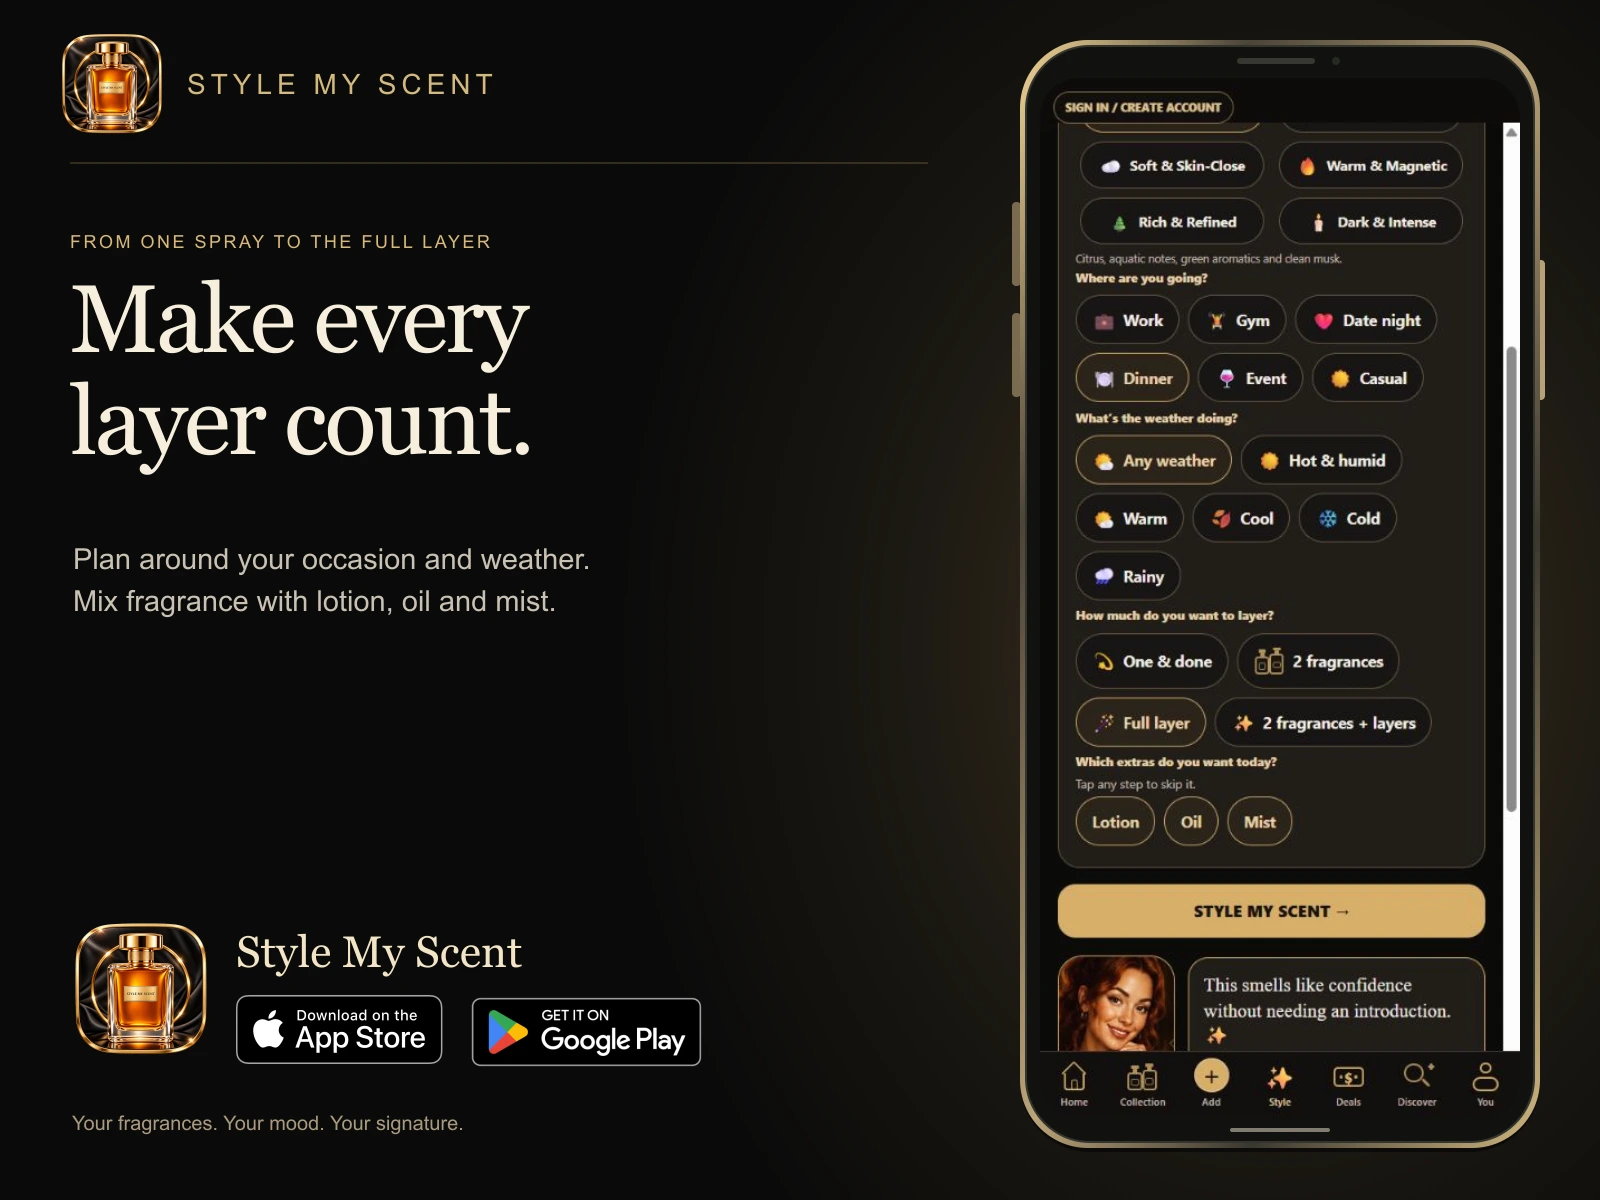
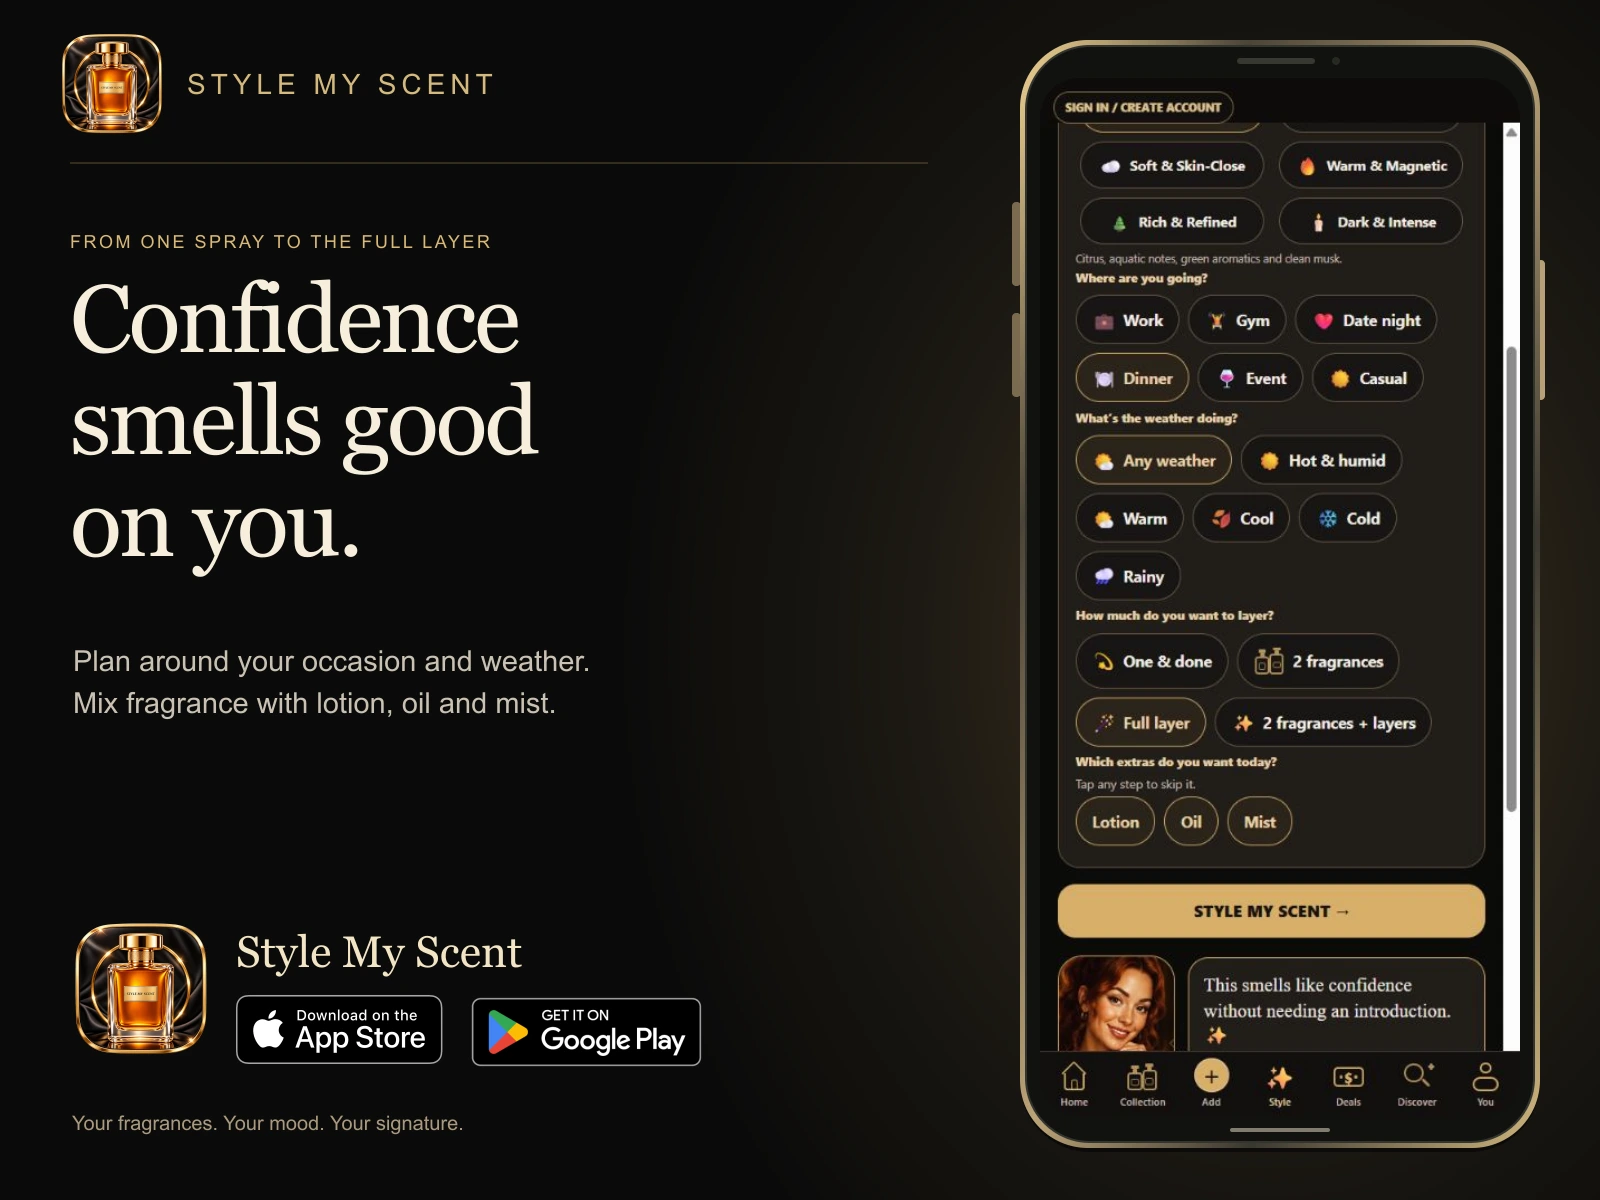
Update feature photo headlines and match app mood choices

Changed region(s): [[0.0312, 0.2158, 0.375, 0.6167]]

diff --git a/index.html b/index.html
@@ -114,13 +114,13 @@ footer{border-top:1px solid var(--line);padding:38px 0 48px;color:#9f9589;font-s
 <nav><a class="brand" href="#top">STYLE MY <span>SCENT</span></a><div class="navlinks"><a href="#app-photos">App Preview</a><a href="#how">How It Works</a><a href="#discover">Discover</a><a href="#layering">Layering</a><a href="#deals">Deals</a><a class="navcta" href="#get-app">Get the App</a></div></nav>
 <header class="hero"><div class="addison-wrap"><img alt="Addison, the Style My Scent virtual fragrance stylist" class="addison" src="addison-app.jpg"></div><div class="hero-copy"><div class="eyebrow">YOUR COLLECTION. YOUR LAYERS. YOUR SIGNATURE.</div><h1 class="addison-script" aria-label="Hi, I’m Addison"><svg viewBox="0 0 984 123" aria-hidden="true" focusable="false"><path fill="currentColor" fill-rule="evenodd" d="M128 99L125 100L120 107L120 110L118 114L120 120L122 119L125 113L125 111L131 104L130 100ZM373 85L372 84L366 96L357 106L355 107L350 107L348 105L348 97L349 96L349 92L351 89L351 85L353 82L353 73L351 70L346 67L340 68L333 72L328 77L325 83L323 84L322 81L324 77L324 64L321 59L314 58L307 61L303 64L294 73L288 81L287 80L287 75L289 70L287 66L281 66L278 68L278 73L277 74L275 86L268 104L268 110L273 112L276 111L276 109L282 96L287 90L293 80L302 71L307 68L311 68L313 71L313 79L312 80L311 87L304 105L304 109L308 111L311 111L312 110L314 104L330 80L336 75L340 75L342 77L342 86L338 97L338 105L340 109L344 112L352 112L361 107L367 100L373 88ZM106 57L101 58L93 67L89 75L85 87L85 91L83 95L83 102L85 107L90 111L93 111L94 112L96 111L101 111L109 107L118 98L124 86L123 84L114 98L106 105L104 105L101 107L98 107L93 103L92 101L93 90L100 75L108 62L108 59ZM665 33L659 32L653 35L650 39L651 43L655 45L661 44L666 38ZM122 33L118 30L111 32L107 36L107 41L110 43L115 43L119 41L122 37ZM905 2L897 6L890 13L886 23L886 28L887 29L888 37L894 51L907 70L913 77L924 94L931 109L938 109L940 103L949 87L972 55L978 44L978 42L980 40L981 32L982 31L981 18L980 15L974 8L970 5L963 2L952 2L951 3L948 3L943 6L936 13L935 16L933 15L928 8L920 3L917 2ZM905 11L914 10L920 13L926 19L931 30L938 30L941 21L945 16L950 12L956 10L960 10L966 12L973 20L973 26L974 27L973 28L973 33L970 42L963 52L962 55L942 82L935 95L932 93L926 81L908 57L907 54L904 51L898 41L895 31L895 22L898 16ZM402 117L403 119L407 122L410 117L410 114L412 112L415 103L417 101L417 99L420 95L420 93L425 85L426 81L428 79L428 77L434 69L444 69L445 70L454 71L455 72L454 84L453 85L453 100L456 110L462 114L467 114L474 111L482 102L485 109L488 112L493 114L500 113L504 111L512 104L522 91L524 92L522 103L524 109L529 113L539 112L546 108L546 107L554 100L555 101L556 109L561 113L567 114L568 113L571 113L579 108L586 101L594 90L595 91L594 101L593 102L595 109L600 113L607 113L614 110L626 99L627 100L627 105L629 109L632 112L635 113L643 113L649 111L655 107L660 102L662 105L662 107L668 114L676 117L682 117L691 114L695 111L700 104L705 103L713 98L714 99L714 105L717 111L722 114L729 114L736 111L749 99L759 100L766 97L768 98L768 100L766 103L765 109L771 112L774 109L775 106L778 103L779 100L789 86L797 78L803 75L809 75L813 80L811 92L808 98L808 106L809 108L814 112L824 112L828 110L837 101L844 88L844 86L842 86L834 100L827 107L822 109L819 108L817 105L818 96L823 85L823 74L818 67L816 66L808 66L803 68L794 75L784 87L783 86L783 83L785 79L786 71L784 69L778 69L776 70L775 72L774 81L771 89L766 94L764 94L762 96L752 96L751 94L755 89L759 81L759 78L761 74L761 64L760 61L756 57L747 57L743 59L739 63L736 73L736 79L737 80L738 87L745 97L735 106L731 108L727 108L724 104L724 95L725 94L725 90L727 87L729 80L733 74L733 72L729 72L724 75L720 80L715 91L708 99L704 101L701 101L700 100L700 87L693 67L693 61L692 60L693 51L688 51L685 56L685 63L683 65L681 70L673 81L662 90L661 95L652 105L646 108L641 108L639 107L636 103L637 90L641 83L641 81L646 74L652 62L650 59L646 59L644 60L637 68L630 84L630 86L625 95L613 106L611 107L606 107L604 105L604 91L605 90L607 78L609 76L610 70L617 55L618 50L620 48L620 46L628 31L628 29L637 12L638 3L637 2L634 2L630 5L624 14L623 18L613 38L600 73L593 86L586 96L580 102L572 107L569 107L565 102L565 95L568 86L573 76L577 71L587 62L591 60L599 60L601 61L601 58L599 56L596 56L595 55L589 56L579 61L569 70L563 78L554 95L545 104L540 107L535 107L533 105L533 91L536 82L536 78L538 75L538 72L546 55L546 53L549 48L549 46L567 9L567 3L566 2L562 2L556 9L547 26L546 31L544 33L541 43L539 45L531 68L522 86L512 99L505 105L501 107L498 107L494 103L495 91L501 78L505 72L514 63L520 60L530 61L530 58L528 56L525 56L524 55L518 56L511 59L504 64L491 79L485 91L485 93L480 100L472 107L467 107L464 102L464 86L465 85L466 71L468 66L469 57L471 52L471 48L473 45L474 38L476 35L476 32L482 14L487 7L487 6L482 2L477 2L475 3L454 26L453 29L447 35L443 42L439 46L438 49L432 56L432 58L430 60L414 59L407 62L404 65L404 67L420 67L421 68L422 67L424 69L411 90L411 92L408 96L408 98L406 100L405 105L403 107ZM668 94L670 92L678 100L688 104L689 106L684 111L677 112L673 110L668 103L668 99L667 98L668 97ZM685 69L687 72L688 79L690 84L691 96L689 101L685 101L681 99L672 89L673 85L677 81ZM754 61L757 66L757 73L750 89L747 91L743 83L743 70L748 62ZM445 48L447 48L458 58L458 62L455 66L448 64L444 64L437 61ZM473 12L474 14L472 16L472 18L469 23L464 38L464 41L461 47L461 51L459 55L457 56L447 45L454 35L458 31L462 29L463 27L462 23L466 18ZM286 0L285 0L275 17L277 21L279 21L280 18L286 11L289 5ZM269 3L252 2L251 1L245 1L244 0L221 0L216 2L208 3L201 9L201 11L219 10L220 9L233 9L234 11L232 15L229 30L227 34L227 38L224 47L224 51L221 61L221 65L219 69L219 73L216 80L215 87L212 94L210 103L206 109L198 109L197 110L192 110L187 112L184 115L183 121L193 120L194 119L227 119L228 118L237 117L243 113L243 112L238 112L237 111L215 110L213 108L217 104L224 87L226 74L228 70L228 65L231 56L231 51L232 50L232 46L234 40L234 35L235 34L239 10L240 9L258 9L259 8L264 8L268 6ZM89 0L87 0L83 4L80 9L75 23L75 26L72 32L72 35L69 41L69 44L67 47L67 50L64 53L61 53L60 52L48 52L47 51L35 51L34 52L32 50L45 8L44 3L41 0L33 0L31 2L25 4L12 16L8 24L8 32L11 36L16 37L17 24L21 15L27 7L33 4L36 4L37 5L34 18L32 21L32 24L27 36L27 39L24 44L23 50L21 53L12 56L9 61L11 62L12 61L18 61L19 63L16 70L16 73L13 79L13 82L11 85L8 100L6 104L5 113L3 117L3 120L4 121L8 119L13 112L13 109L17 100L17 97L22 84L22 81L25 74L26 68L28 65L28 62L30 60L50 59L51 58L62 58L64 60L61 68L61 71L59 74L58 81L55 89L54 99L53 100L53 114L56 119L61 121L63 120L63 103L64 102L64 96L65 95L65 90L66 89L66 84L67 83L69 69L71 65L71 60L73 58L79 58L83 55L83 54L75 53L74 50L76 46L77 38L81 27L82 20L84 17L84 14L87 8Z"/></svg></h1><p class="lead">I’ll help you style what you own, discover what you’ll love, and make every scent feel unforgettable. Organize your collection, build intentional layers, remember your best wears, and let us help with the deal hunting.</p><div class="hero-line"><strong>MORE THAN FRAGRANCE.</strong><span>MOOD. MEMORY. YOU.</span></div><div class="hero-app-callout" id="get-app"><div class="magic-kicker">WHERE THE MAGIC HAPPENS</div><p>The personalized experience lives in the Style My Scent app.</p><form id="waitlist-form" class="waitlist-form"><input id="waitlist-email" type="email" placeholder="Your email address" autocomplete="email" required><button type="submit">NOTIFY ME AT LAUNCH →</button></form><div id="waitlist-status" class="waitlist-status" aria-live="polite"></div></div></div></header>
 </div>
-<section id="app-photos"><div class="wrap"><div class="center"><div class="eyebrow">Explore the app</div><h2 class="section-title">Your whole fragrance world, in one app.</h2><p class="section-copy">Meet Addison, style your own collection, build layers, compare similar scents, and shop the same bottle across retailers. Take a closer look below.</p><nav class="feature-shortcuts" aria-label="App preview features"><a href="#preview-meet-addison">Meet Addison</a><a href="#preview-personal-styling">Personal styling</a><a href="#preview-occasion-layering">Layering</a><a href="#preview-discover-complete">Discover</a><a href="#preview-deals">Compare deals</a></nav></div><figure class="app-feature-photo" id="preview-meet-addison"><a href="assets/app-features/meet-addison.webp" target="_blank" rel="noopener" aria-label="Open full-size image: Meet Addison, your personal fragrance stylist in Style My Scent"><img src="assets/app-features/meet-addison.webp" alt="Meet Addison, your personal fragrance stylist in Style My Scent" width="1600" height="1200" loading="lazy" decoding="async"></a><figcaption>Tap the image to explore every detail. <a class="gold" href="#get-app">Get Style My Scent →</a></figcaption></figure></div></section>
+<section id="app-photos"><div class="wrap"><div class="center"><div class="eyebrow">Explore the app</div><h2 class="section-title">Your whole fragrance world, in one app.</h2><p class="section-copy">Meet Addison, style your own collection, build layers, compare similar scents, and shop the same bottle across retailers. Take a closer look below.</p><nav class="feature-shortcuts" aria-label="App preview features"><a href="#preview-meet-addison">Meet Addison</a><a href="#preview-personal-styling">Personal styling</a><a href="#preview-occasion-layering">Layering</a><a href="#preview-discover-complete">Discover</a><a href="#preview-deals">Compare deals</a></nav></div><figure class="app-feature-photo" id="preview-meet-addison"><a href="assets/app-features/meet-addison.webp?v=headlines-v2" target="_blank" rel="noopener" aria-label="Open full-size image: Meet Addison, your personal fragrance stylist in Style My Scent"><img src="assets/app-features/meet-addison.webp?v=headlines-v2" alt="Meet Addison, your personal fragrance stylist in Style My Scent" width="1600" height="1200" loading="lazy" decoding="async"></a><figcaption>Tap the image to explore every detail. <a class="gold" href="#get-app">Get Style My Scent →</a></figcaption></figure></div></section>
 <section id="how"><div class="wrap center"><div class="eyebrow">More than a perfume list</div><h2 class="section-title">Your collection can do more than sit there looking pretty.</h2><p class="section-copy"><strong>Style My Scent is a fragrance discovery and personal styling platform</strong> built around the way fragrance lovers actually collect, layer, wear, remember and shop—so the bottles you own become a collection you can really use.</p><div class="feature-grid"><div class="feature"><h3>Style What You Own</h3><p>Your fragrance wardrobe, all in one place. Save and organize your perfumes, oils, lotions and mists, then use your own collection when you style a scent.</p></div><div class="feature"><h3>Layer With Intention</h3><p>Addison builds from what you own, then gives every styling result the same clear breakdown: why it works, the harmonizing notes, and the best way to wear it for the moment.</p></div><div class="feature"><h3>Remember What Worked</h3><p>Journal wears, reactions, compliments and favorite combinations so your collection gets smarter with you.</p></div></div></div></section>
-<section id="mood"><div class="wrap mood-layout"><div class="mood-copy"><div class="eyebrow">Style the moment</div><div class="big">Mood, plans and weather all matter.</div><p class="section-copy" style="margin:18px 0 0">Tell Style My Scent what kind of day you’re having and let your own collection do more of the work.</p><div class="chips"><span class="chip">😎 Confident</span><span class="chip">💕 Flirty</span><span class="chip">😌 Relaxed</span><span class="chip">🖤 Mysterious</span><span class="chip">🔥 Bold</span><span class="chip">🎲 Surprise Me</span></div></div><div class="event-grid"><div class="event"><b>💼 Work</b><span>Regular workday, interview, meeting or presentation.</span></div><div class="event"><b>❤ Date Night</b><span>Style the scent around the kind of night you have planned.</span></div><div class="event"><b>🍽 Dinner</b><span>Memorable without competing with the table.</span></div><div class="event"><b>🍷 Event</b><span>Dress code, room and energy all count.</span></div><div class="event"><b>☀ Casual</b><span>Easy choices that still feel intentionally styled.</span></div><div class="event"><b>🏋 Gym</b><span>Fresh, clean and close—never taking over the room.</span></div></div></div></section>
+<section id="mood"><div class="wrap mood-layout"><div class="mood-copy"><div class="eyebrow">Style the moment</div><div class="big">Mood, plans and weather all matter.</div><p class="section-copy" style="margin:18px 0 0">Tell Style My Scent what kind of day you’re having and let your own collection do more of the work.</p><div class="chips"><span class="chip">😎 Confident</span><span class="chip">💕 Flirty</span><span class="chip">😌 Relaxed</span><span class="chip">🖤 Mysterious</span><span class="chip">🔥 Bold</span></div></div><div class="event-grid"><div class="event"><b>💼 Work</b><span>Regular workday, interview, meeting or presentation.</span></div><div class="event"><b>❤ Date Night</b><span>Style the scent around the kind of night you have planned.</span></div><div class="event"><b>🍽 Dinner</b><span>Memorable without competing with the table.</span></div><div class="event"><b>🍷 Event</b><span>Dress code, room and energy all count.</span></div><div class="event"><b>☀ Casual</b><span>Easy choices that still feel intentionally styled.</span></div><div class="event"><b>🏋 Gym</b><span>Fresh, clean and close—never taking over the room.</span></div></div></div></section>
 
-<div class="wrap"><figure class="app-feature-photo" id="preview-personal-styling"><a href="assets/app-features/personal-styling.webp" target="_blank" rel="noopener" aria-label="Open full-size image: Choose your mood, scent direction, occasion and weather"><img src="assets/app-features/personal-styling.webp" alt="Choose your mood, scent direction, occasion and weather" width="1600" height="1200" loading="lazy" decoding="async"></a><figcaption>Tap the image to explore every detail. <a class="gold" href="#get-app">Get Style My Scent →</a></figcaption></figure></div>
+<div class="wrap"><figure class="app-feature-photo" id="preview-personal-styling"><a href="assets/app-features/personal-styling.webp?v=headlines-v2" target="_blank" rel="noopener" aria-label="Open full-size image: Choose your mood, scent direction, occasion and weather"><img src="assets/app-features/personal-styling.webp?v=headlines-v2" alt="Choose your mood, scent direction, occasion and weather" width="1600" height="1200" loading="lazy" decoding="async"></a><figcaption>Tap the image to explore every detail. <a class="gold" href="#get-app">Get Style My Scent →</a></figcaption></figure></div>
 <section id="layering"><div class="wrap"><div class="story-head"><div class="story-kicker">LET’S GET YOU <span class="gold">REMEMBERED.</span></div><div class="eyebrow story-signature">YOUR SIGNATURE</div></div><div class="layering-hero"><img src="assets/style-my-scent-layering-hero-web.jpg?v=20260906-5" alt="Style My Scent layering technique — lotion, fragrance oil and perfume with real collection display" loading="eager" fetchpriority="high" decoding="async"></div>
-<figure class="app-feature-photo" id="preview-occasion-layering"><a href="assets/app-features/occasion-layering.webp" target="_blank" rel="noopener" aria-label="Open full-size image: Build fragrance layers with perfume, lotion, oil and mist"><img src="assets/app-features/occasion-layering.webp" alt="Build fragrance layers with perfume, lotion, oil and mist" width="1600" height="1200" loading="lazy" decoding="async"></a><figcaption>Tap the image to explore every detail. <a class="gold" href="#get-app">Get Style My Scent →</a></figcaption></figure>
+<figure class="app-feature-photo" id="preview-occasion-layering"><a href="assets/app-features/occasion-layering.webp?v=headlines-v2" target="_blank" rel="noopener" aria-label="Open full-size image: Build fragrance layers with perfume, lotion, oil and mist"><img src="assets/app-features/occasion-layering.webp?v=headlines-v2" alt="Build fragrance layers with perfume, lotion, oil and mist" width="1600" height="1200" loading="lazy" decoding="async"></a><figcaption>Tap the image to explore every detail. <a class="gold" href="#get-app">Get Style My Scent →</a></figcaption></figure>
 <div class="addison-visual-showcase" aria-label="See Style My Scent in action">
   <div class="addison-visual-head">
     <div>
@@ -157,7 +157,7 @@ footer{border-top:1px solid var(--line);padding:38px 0 48px;color:#9f9589;font-s
     <div class="discover-path-note"><strong>Shopping for a better-priced perfume?</strong> Stay right here and search below—I’ll compare the two strongest bottle alternatives and live shopping options. <strong>Styling what you already own?</strong> The app is where I layer your perfumes, oils, lotions and mists around your mood, plans and weather. <a href="#get-app">Get app updates →</a></div>
   </div>
 
-  <figure class="app-feature-photo" id="preview-discover-complete"><a href="assets/app-features/discover-complete.webp" target="_blank" rel="noopener" aria-label="Open full-size image: VALAYA and Delilah Blanc: bottle photos, 82 percent similarity, side-by-side notes, scent differences and shopping options"><img src="assets/app-features/discover-complete.webp" alt="VALAYA and Delilah Blanc: bottle photos, 82 percent similarity, side-by-side notes, scent differences and shopping options" width="1800" height="1780" loading="lazy" decoding="async"></a><figcaption>Tap the image to explore every detail. <a class="gold" href="#get-app">Get Style My Scent →</a></figcaption></figure>
+  <figure class="app-feature-photo" id="preview-discover-complete"><a href="assets/app-features/discover-complete.webp?v=headlines-v2" target="_blank" rel="noopener" aria-label="Open full-size image: VALAYA and Delilah Blanc: bottle photos, 82 percent similarity, side-by-side notes, scent differences and shopping options"><img src="assets/app-features/discover-complete.webp?v=headlines-v2" alt="VALAYA and Delilah Blanc: bottle photos, 82 percent similarity, side-by-side notes, scent differences and shopping options" width="1800" height="1780" loading="lazy" decoding="async"></a><figcaption>Tap the image to explore every detail. <a class="gold" href="#get-app">Get Style My Scent →</a></figcaption></figure>
   <div class="web-discover-example" aria-label="Example fragrance match">
     <div class="web-discover-example-copy">
       <div class="web-compare-kicker">SEE IT IN ACTION</div>
